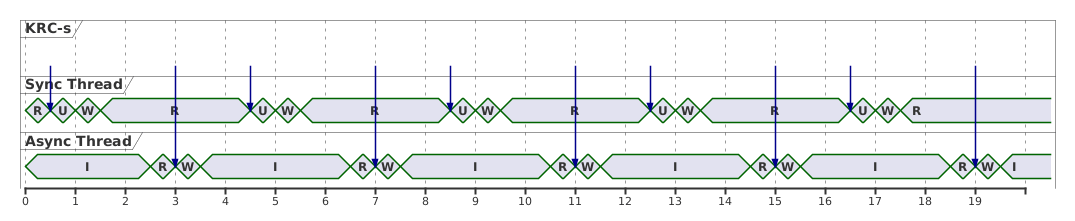
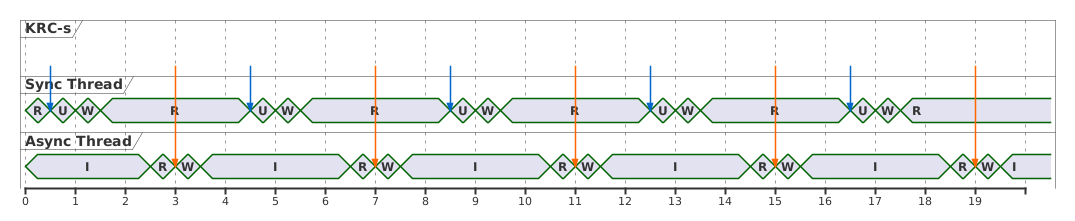
format, arrow colors

diff --git a/controllers/kuka_kss_message_handler/src/kuka_kss_message_handler.cpp b/controllers/kuka_kss_message_handler/src/kuka_kss_message_handler.cpp
@@ -128,8 +128,7 @@ ReturnType KssMessageHandler::update(const rclcpp::Time &, const rclcpp::Duratio
     {
       RCLCPP_WARN_THROTTLE(
         get_node()->get_logger(), *get_node()->get_clock(), WARN_THROTTLE_DURATION_MS,
-        "Failed to set cycle time command interface for robot '%s'",
-        robot_prefixes_[idx].c_str());
+        "Failed to set cycle time command interface for robot '%s'", robot_prefixes_[idx].c_str());
     }
   }
 

diff --git a/doc/wiki/Home.md b/doc/wiki/Home.md
@@ -172,7 +172,7 @@ The following timing constraints apply in all cases due to `ros2_control` behavi
 
 Note: for simplicity, in cases where it does not affect the outcome, `read` is triggered at the same time for both threads.
 
-Legend: 
+Legend:
 - R = hardware interface `read`
 - U = controller `update`
 - W = hardware interface `write`
